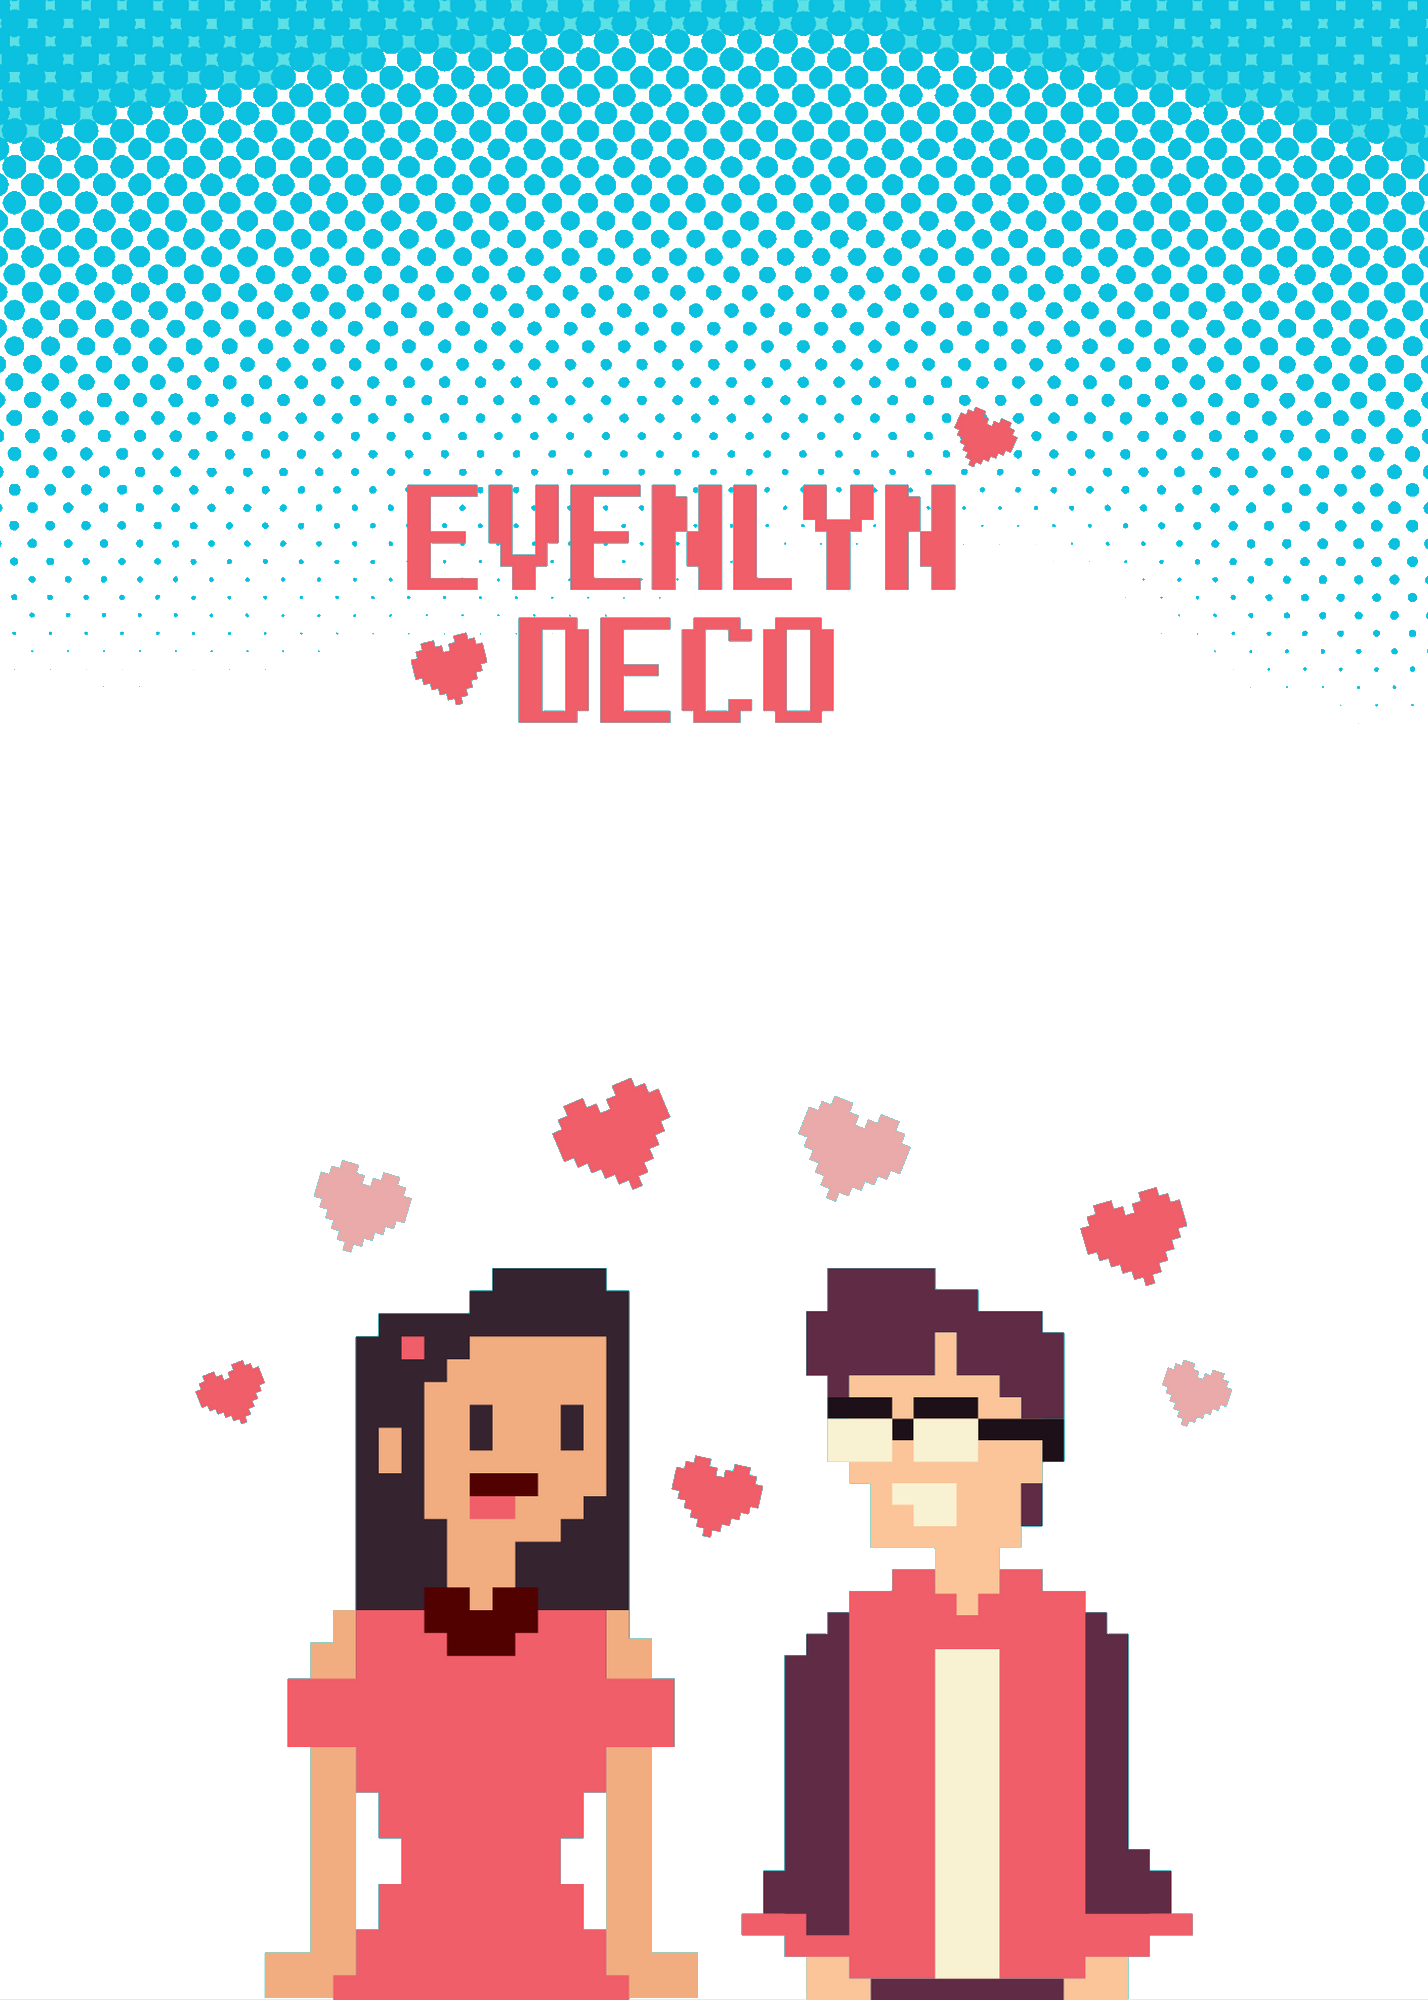
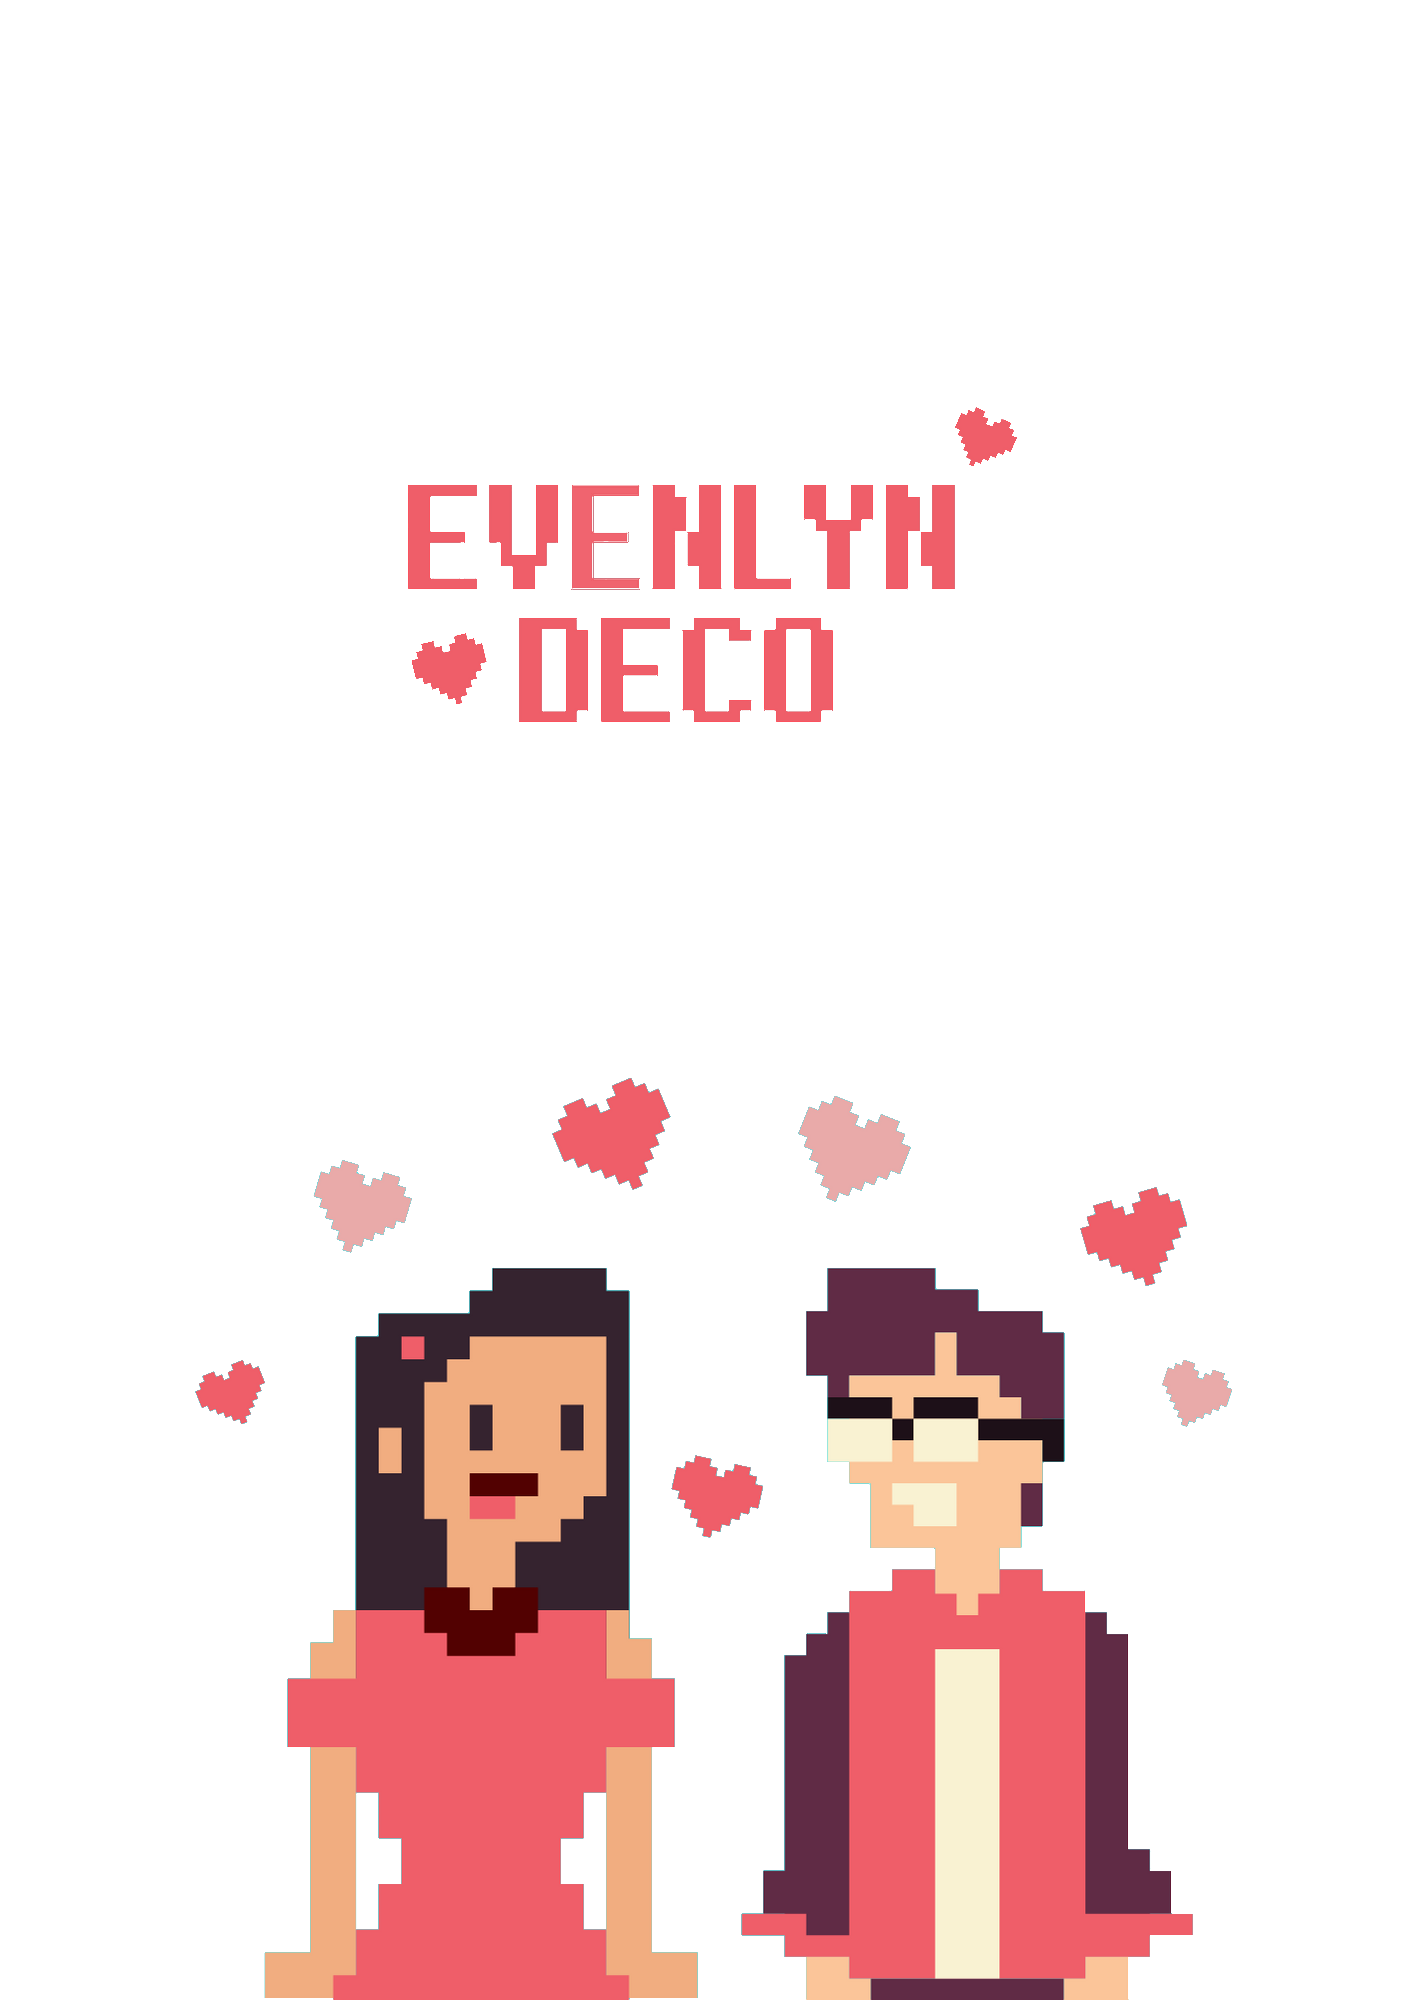
update

Changed region(s): [[0.0, 0.0, 1.0, 0.31], [0.4314, 0.248, 0.4622, 0.279]]

diff --git a/index.html b/index.html
@@ -10,8 +10,9 @@
             color: white;
             font: normal 20pt arial;
             background-color: #5CE1E6;
-            background-image: url(https://raw.githubusercontent.com/dcbianchi/JavaScript/main/img/GeeK.png?token=GHSAT0AAAAAAB6ABIHRZRSDK3Z6J73RZK6EY7NHBGA); 
-            background-repeat: no-repeat;  
+            background-image: url(img/bg.png);
+            /*background-image: url(https://raw.githubusercontent.com/dcbianchi/JavaScript/main/img/GeeK.png?token=GHSAT0AAAAAAB6ABIHRZRSDK3Z6J73RZK6EY7NHBGA); */
+            background-repeat: repeat-x;  
             background-position: top center;
             }
         h1 {
